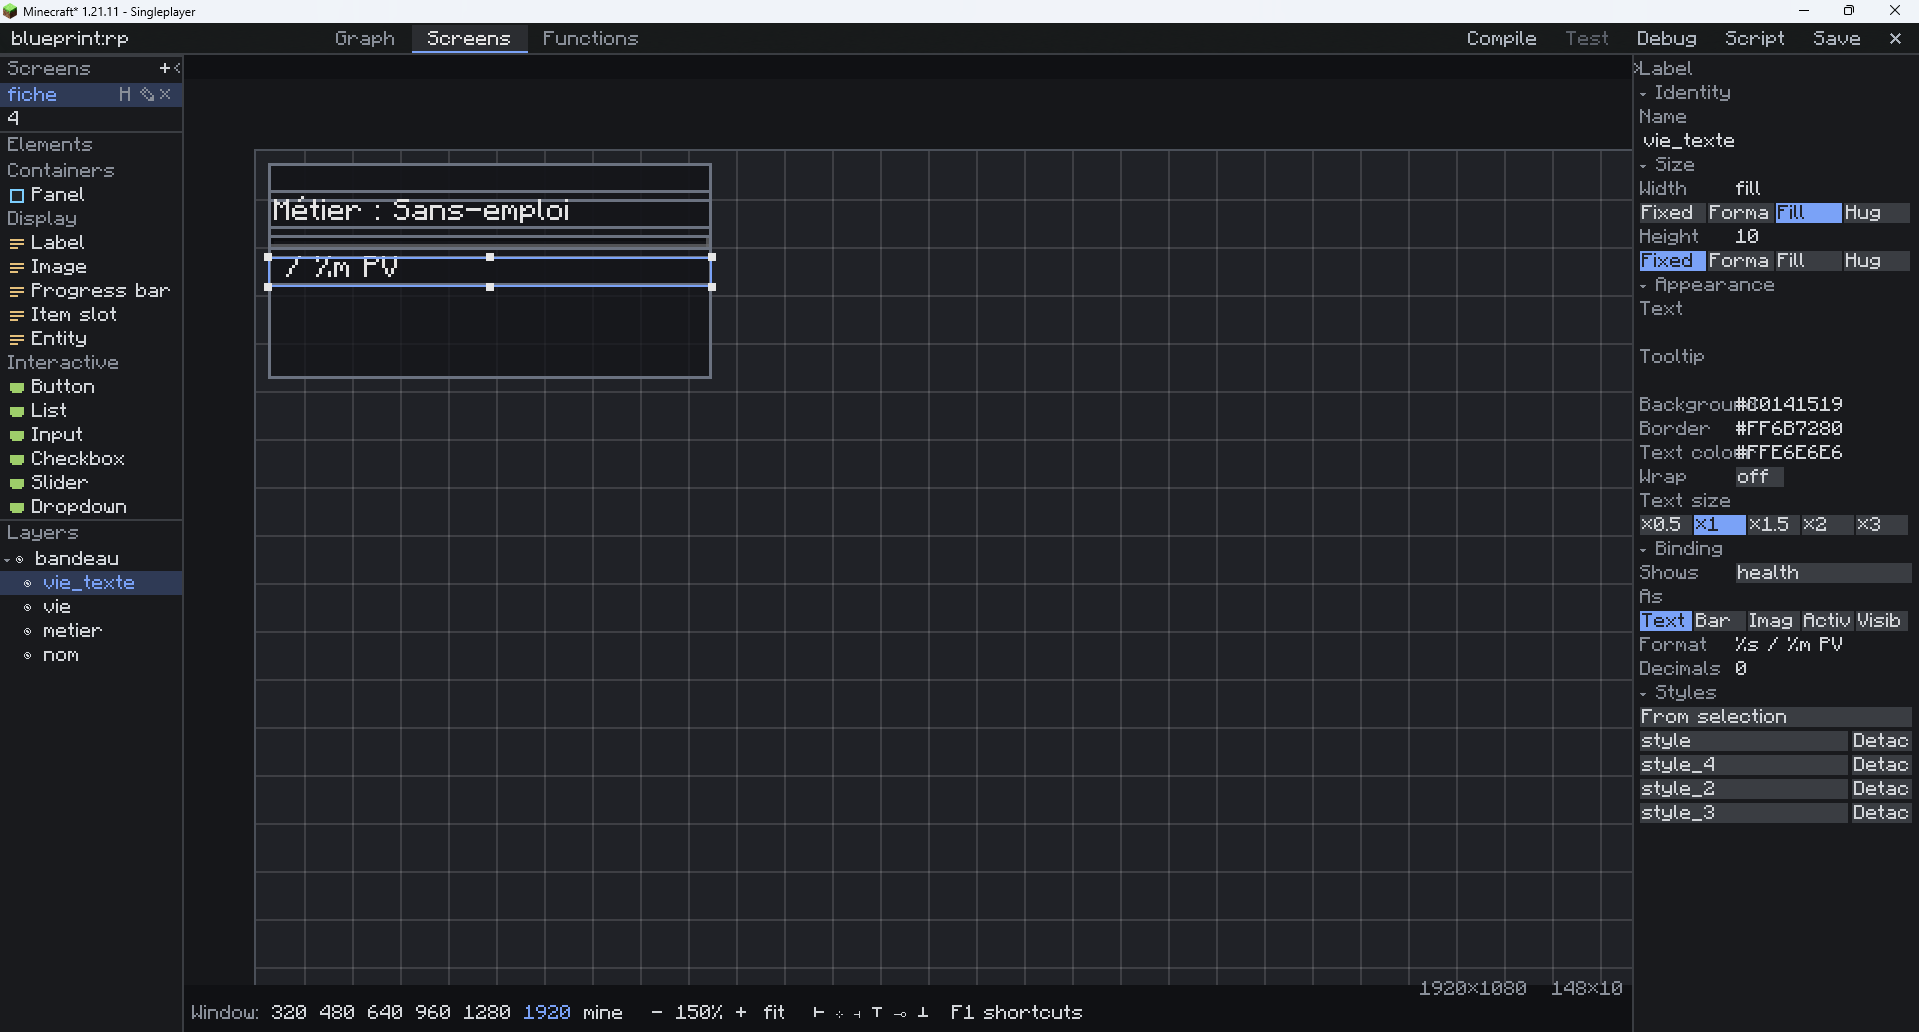
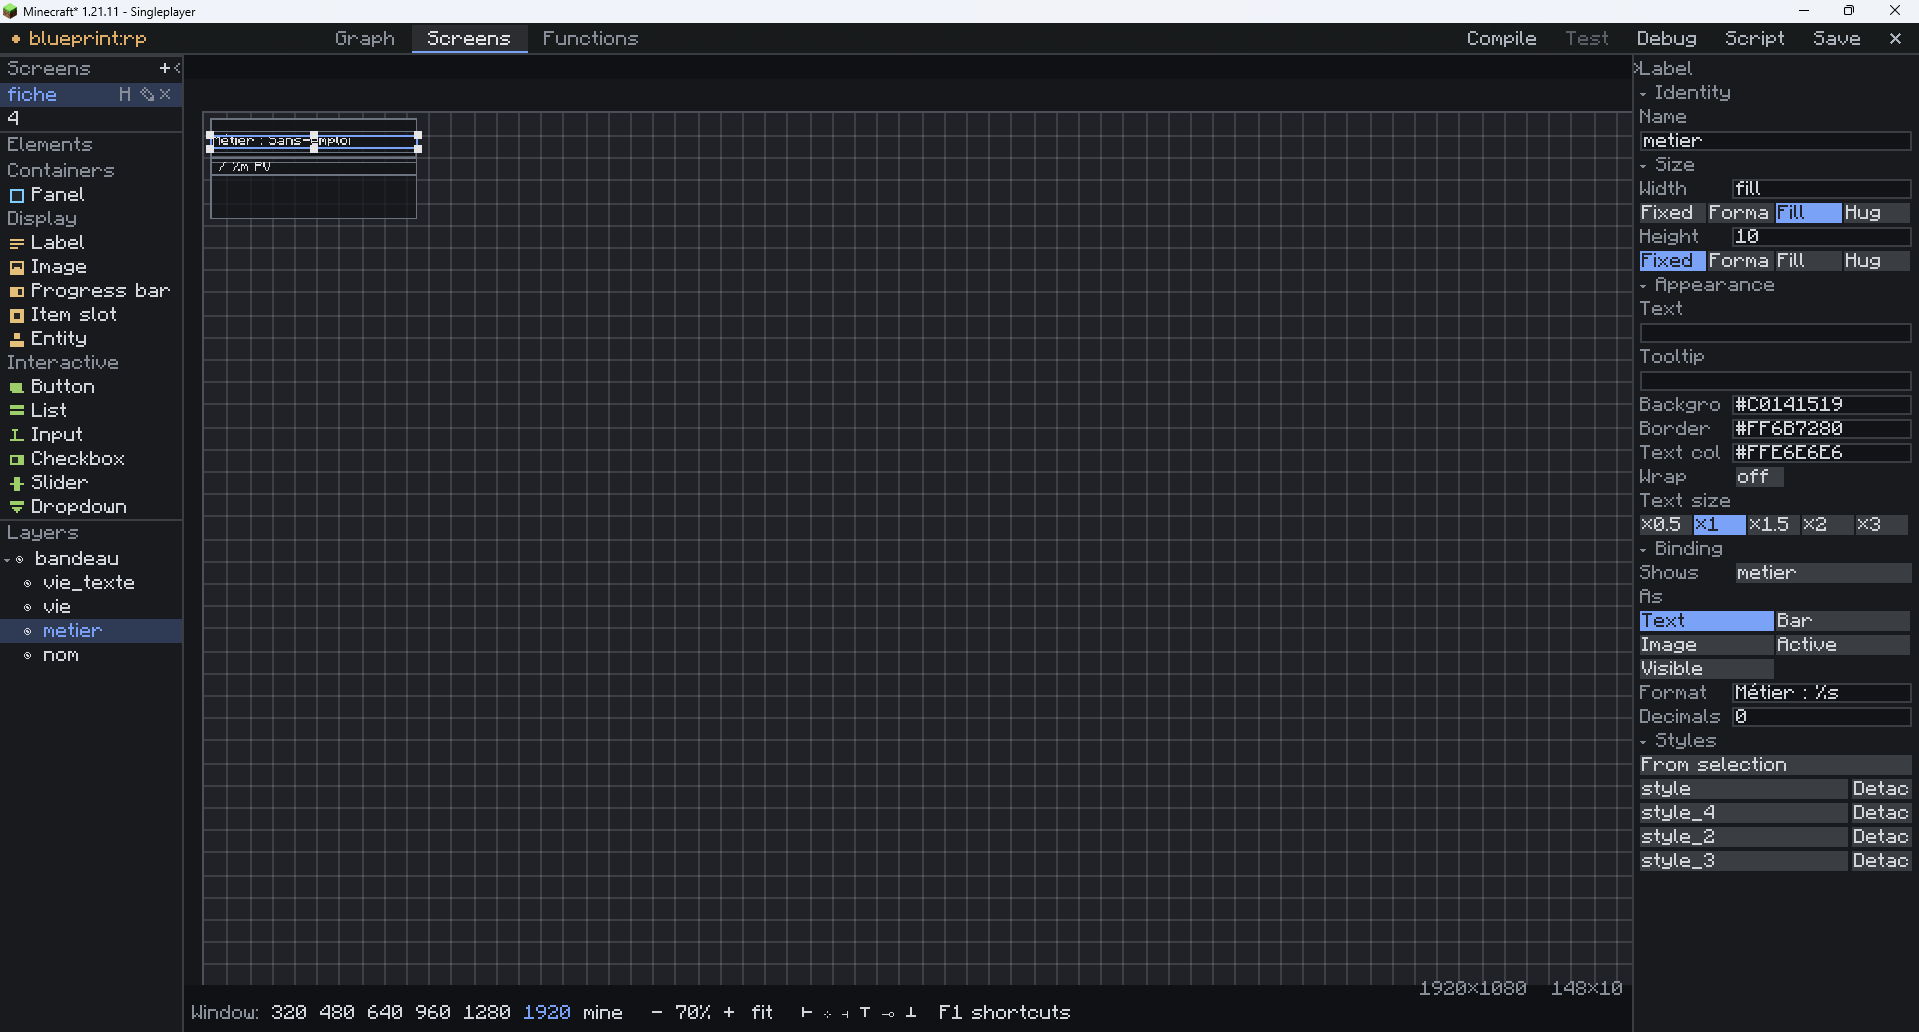
Le pourcentage n'était pas tronqué, il était en erreur de format
« Forma » entre « Fixed » et « Fill » : je l'ai pris deux captures durant pour
un libellé coupé. Le libellé de PERCENT vaut « % ». I18n.get passe chaque
valeur à String.format, qui lève sur un pour cent isolé, et ClientLanguage
rattrape en rendant « Format error: la.clé ». Le joueur lisait donc les cinq
premiers pixels d'un message d'erreur, à la place d'un réglage.

Les deux contrôles voisins ne pouvaient pas l'attraper : l'un compare les deux
langues entre elles, et toutes deux portaient le même « % » ; l'autre ne cherche
que %s et %d. Le nouveau ne cherche rien — il formate, et laisse l'exception
parler. Vu rouge sur cette clé exactement, et sur elle seule.

Avec, les deux autres défauts de la capture. Les tourniquets d'alignement
deviennent des flèches : ⊹ et ⊸ s'affichaient bien, mais à sept pixels de haut
rien ne disait lequel des deux centres agissait sur quel axe — ↔ et ↕ le disent.
Et « Détacher » ne se montre plus que sur le style réellement appliqué : quatre
boutons pour une action qui n'en concerne qu'une, tous illisibles sur trente
pixels, alors que détacher un style qu'on n'a pas mis ne veut rien dire.

Le poids d'un FILL s'écrit enfin : « fill » tout seul ne disait rien de plus que
la pastille allumée en dessous, et cachait la part que l'élément prend sur ses
frères.

diff --git a/client/src/main/java/fr/blueprint/client/editor/screen/ScreenDesignerWidget.java b/client/src/main/java/fr/blueprint/client/editor/screen/ScreenDesignerWidget.java
@@ -590,18 +590,24 @@ public final class ScreenDesignerWidget {
     }
 
     /**
-     * Le signe d'un alignement. Des <b>flèches et des barres</b>, pas des mots : « Aligner
-     * à gauche » dans une barre qui porte déjà quatorze commandes ne laisserait de place
-     * pour rien d'autre, et un pictogramme d'alignement se lit sans traduction.
+     * Le signe d'un alignement. Des <b>flèches</b>, pas des mots : « Aligner à gauche »
+     * dans une barre qui porte déjà quatorze commandes ne laisserait de place pour rien
+     * d'autre, et un pictogramme d'alignement se lit sans traduction.
+     *
+     * <p>C'étaient d'abord des tourniquets mathématiques — {@code ⊢ ⊹ ⊣ ⊤ ⊸ ⊥}. Ils
+     * s'affichent, mais à sept pixels de haut les deux <b>centres</b> sont indistincts :
+     * {@code ⊹} et {@code ⊸} ne sont qu'un pâté de points, et rien ne dit lequel agit sur
+     * quel axe. Une flèche à deux têtes le dit : {@code ↔} est horizontal, {@code ↕} est
+     * vertical, et personne n'a besoin de la légende pour s'en assurer.
      */
     private static String alignGlyph(ScreenCanvasController.Align align) {
         return switch (align) {
-            case LEFT -> "⊢";
-            case CENTER_X -> "⊹";
-            case RIGHT -> "⊣";
-            case TOP -> "⊤";
-            case CENTER_Y -> "⊸";
-            case BOTTOM -> "⊥";
+            case LEFT -> "←";
+            case CENTER_X -> "↔";
+            case RIGHT -> "→";
+            case TOP -> "↑";
+            case CENTER_Y -> "↕";
+            case BOTTOM -> "↓";
         };
     }
 
@@ -1423,14 +1429,24 @@ public final class ScreenDesignerWidget {
             // une ligne derrière.
             y += ROW;
         }
+        // « Détacher » ne se montre que sur le style RÉELLEMENT appliqué. Chaque ligne le
+        // portait, donc quatre boutons pour une action qui n'en concerne qu'une — et sur
+        // trente pixels, tous affichaient « Detac ». Détacher un style qu'on n'a pas mis
+        // ne veut rien dire ; l'unique bouton restant a la place de s'écrire en entier.
+        String detach = I18n.get("blueprint.designer.styles.detach");
+        int detachWidth = detach.length() * ElementPropertiesState.CHAR_WIDTH + 6;
         for (String styleName : screen.styles().keySet()) {
-            rows.add(new Row(y, "", java.util.List.of(
-                    new Chip(styleName, 4, PROPERTIES_WIDTH - 40,
-                            styleName.equals(element.styleName()),
-                            () -> controller.applyStyleToSelection(styleName)),
-                    new Chip(I18n.get("blueprint.designer.styles.detach"),
-                            PROPERTIES_WIDTH - 34, 30, false,
-                            () -> controller.applyStyleToSelection(""))), null, null));
+            boolean applied = styleName.equals(element.styleName());
+            java.util.List<Chip> chips = applied
+                    ? java.util.List.of(
+                            new Chip(styleName, 4, PROPERTIES_WIDTH - 12 - detachWidth,
+                                    true, () -> controller.applyStyleToSelection(styleName)),
+                            new Chip(detach, PROPERTIES_WIDTH - 4 - detachWidth, detachWidth,
+                                    false, () -> controller.applyStyleToSelection("")))
+                    : java.util.List.of(
+                            new Chip(styleName, 4, PROPERTIES_WIDTH - 8, false,
+                                    () -> controller.applyStyleToSelection(styleName)));
+            rows.add(new Row(y, "", chips, null, null));
             y += ROW;
         }
         return rows;

diff --git a/core/src/test/java/fr/blueprint/core/i18n/LocalizationTest.java b/core/src/test/java/fr/blueprint/core/i18n/LocalizationTest.java
@@ -222,6 +222,46 @@ class LocalizationTest {
                         + String.join("\n  ", offenders));
     }
 
+    /**
+     * <b>Toute traduction doit survivre à {@code String.format}.</b>
+     *
+     * <p>C'est ce que le client fait de chaque valeur : {@code I18n.get} la passe au
+     * formateur, et {@code ClientLanguage} rattrape l'exception en rendant
+     * « Format error: <i>la clé</i> ». Rien ne casse, rien ne se dit, et le joueur lit un
+     * mot qui n'a aucun rapport avec ce qu'il regarde.
+     *
+     * <p>Le défaut réel : {@code blueprint.designer.size.percent} valait « % ». La pastille
+     * du mode « pourcentage » affichait donc <b>« Forma »</b> — les cinq premiers pixels de
+     * « Format error » — entre « Fixed » et « Fill », et j'ai passé deux captures d'écran à
+     * la prendre pour un libellé tronqué. Un pour cent littéral s'écrit « %% ».
+     *
+     * <p>Les deux contrôles voisins ne pouvaient pas l'attraper : l'un compare les langues
+     * entre elles, or les deux portaient le même « % » ; l'autre ne cherche que {@code %s}
+     * et {@code %d}. Celui-ci ne cherche rien — il exécute.
+     */
+    @Test
+    void everyTranslationSurvivesFormatting() {
+        for (String locale : List.of("en_us", "fr_fr")) {
+            JsonObject lang = lang(locale);
+            List<String> offenders = new ArrayList<>();
+            for (String key : lang.keySet()) {
+                String value = lang.get(key).getAsString();
+                int expected = placeholders(value);
+                Object[] args = new Object[expected];
+                java.util.Arrays.fill(args, "x");
+                try {
+                    String.format(value, args);
+                } catch (java.util.IllegalFormatException e) {
+                    offenders.add(key + " = « " + value + " » → "
+                            + e.getClass().getSimpleName());
+                }
+            }
+            assertTrue(offenders.isEmpty(), locale
+                    + " : ces clés s'afficheraient « Format error: … » en jeu :\n  "
+                    + String.join("\n  ", offenders));
+        }
+    }
+
     private static int placeholders(String text) {
         int count = 0;
         Matcher matcher = Pattern.compile("%(?:\\d+\\$)?[sd]").matcher(text);

diff --git a/client/src/main/java/fr/blueprint/client/editor/screen/ElementPropertiesState.java b/client/src/main/java/fr/blueprint/client/editor/screen/ElementPropertiesState.java
@@ -521,7 +521,11 @@ public final class ElementPropertiesState {
             case FIXED -> number(value.value());
             case PERCENT -> number(java.math.BigDecimal.valueOf(value.value()).movePointRight(2)
                     .stripTrailingZeros().doubleValue()) + "%";
-            case FILL -> value.value() == 1 ? "fill" : "fill:" + number(value.value());
+            // Le poids TOUJOURS écrit, même quand il vaut un. « fill » tout seul ne disait
+            // rien de plus que la pastille « Remplir » allumée juste en dessous, et il
+            // cachait la seule chose que ce champ sait régler en mode FILL : la part que
+            // l'élément prend sur ses frères. Un réglage qu'on ne voit pas n'existe pas.
+            case FILL -> "fill:" + number(value.value());
             case HUG -> "hug";
         };
     }
